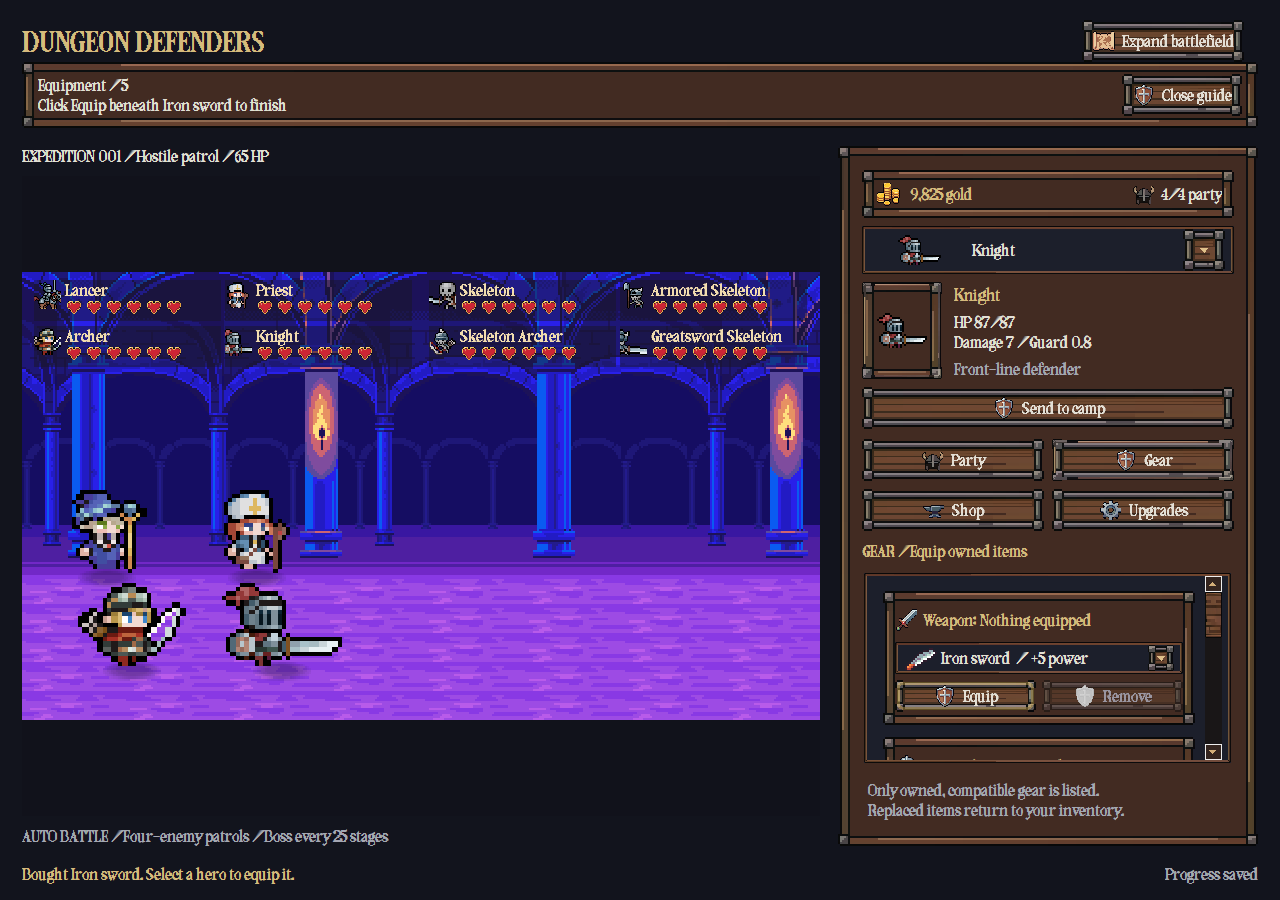
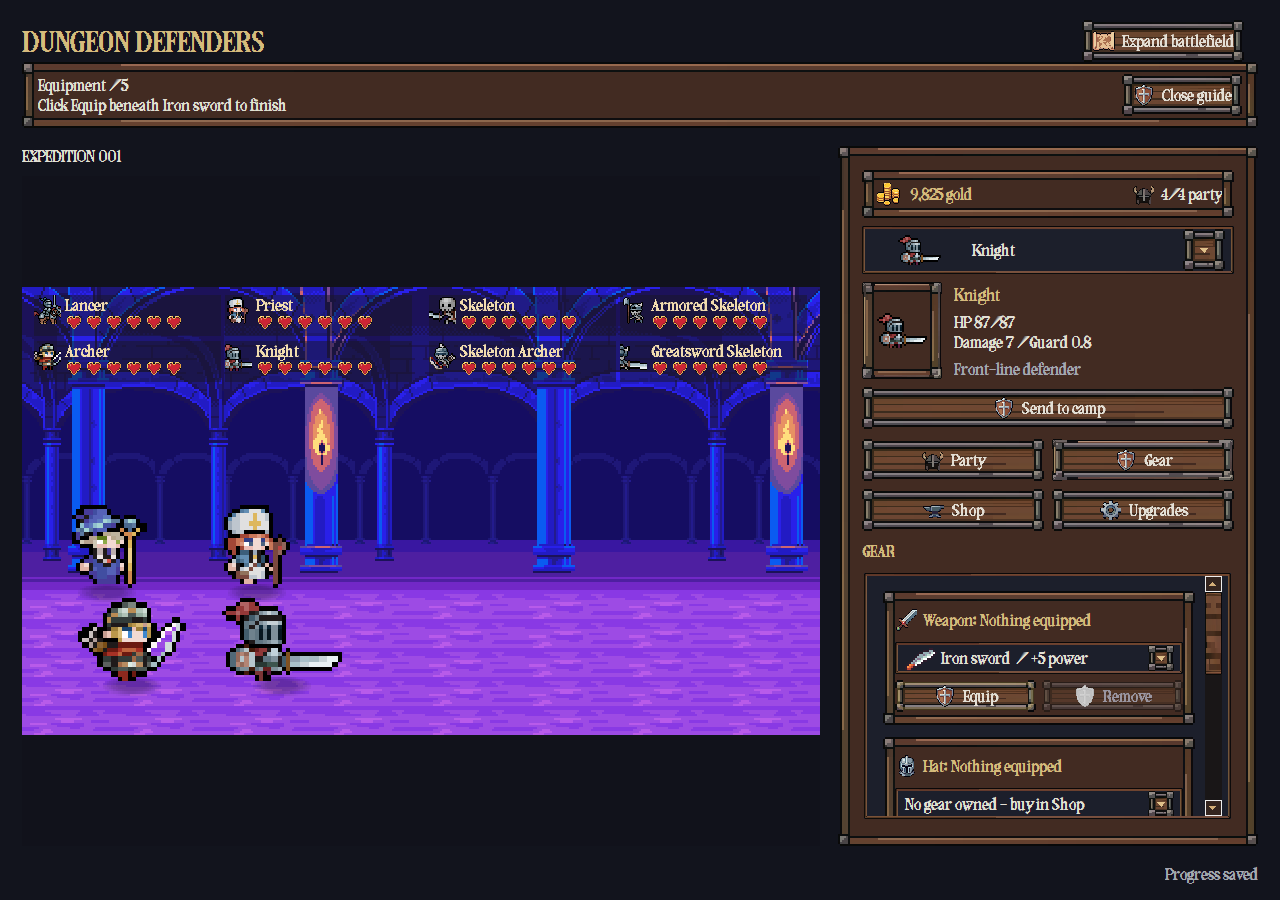
Few documentation and text removal update

diff --git a/src/idle/IdleGame.java b/src/idle/IdleGame.java
@@ -174,8 +174,7 @@ public final class IdleGame {
         JPanel scene = panel(new BorderLayout());
         stage.setForeground(TEXT); stage.setBorder(new EmptyBorder(0, 0, 10, 0)); scene.add(stage, BorderLayout.NORTH);
         battlefield = new BattlePanel(state); scene.add(battlefield, BorderLayout.CENTER);
-        JLabel tip = label("AUTO BATTLE / Four-enemy patrols / Boss every 25 stages", MUTED, 11);
-        tip.setBorder(new EmptyBorder(10, 0, 0, 0)); scene.add(tip, BorderLayout.SOUTH); left.add(scene, BorderLayout.CENTER);
+        left.add(scene, BorderLayout.CENTER);
         JPanel rosterBlock = panel(new BorderLayout(0, 9));
         rosterBlock.setBorder(new EmptyBorder(14, 2, 2, 2));
         JPanel rosterHeading = panel(new GridLayout(2, 1, 0, 5));
@@ -331,13 +330,9 @@ public final class IdleGame {
         management.add(navigationArea, BorderLayout.NORTH); management.add(tabs, BorderLayout.CENTER);
         tabs.addChangeListener(e -> updatePageHeading());
         sidebar.add(management, BorderLayout.CENTER);
-        JLabel guide = label("", MUTED, 11);
-        String[] hints = {"<html>Up to 4 heroes fight at once.<br>Recruited heroes can wait at camp.</html>", "<html>Only owned, compatible gear is listed.<br>Replaced items return to your inventory.</html>", "<html>Purchases go to shared inventory.<br>Buying an item does not equip it.</html>", "<html>Each upgrade is bought separately.<br>Gold is shared by all heroes.</html>"};
-        guide.setText(hints[0]); tabs.addChangeListener(e -> guide.setText(hints[tabs.getSelectedIndex()]));
-        guide.setBorder(new EmptyBorder(4, 6, 2, 6)); sidebar.add(guide, BorderLayout.SOUTH);
         body.add(sidebar, BorderLayout.EAST); root.add(body, BorderLayout.CENTER);
         expand.addActionListener(e -> { sidebar.setVisible(!sidebar.isVisible()); expand.setText(sidebar.isVisible() ? "Expand battlefield" : "Show party & gear"); refreshGuide(); body.revalidate(); body.repaint(); });
-        JPanel footer = panel(new BorderLayout(10, 0)); event.setForeground(GOLD); event.setFont(font(11)); footer.add(event, BorderLayout.CENTER);
+        JPanel footer = panel(new BorderLayout(10, 0));
         saveStatus.setForeground(MUTED); saveStatus.setFont(font(10)); footer.add(saveStatus, BorderLayout.EAST); root.add(footer, BorderLayout.SOUTH);
         if (state.activeCount() == 0) { recoveryGuide = true; guide("Regrouping"); }
         refresh();
@@ -397,7 +392,7 @@ public final class IdleGame {
 
     // explain the current page in terms of what the player can do and who receives the change
     private void updatePageHeading() {
-        String[] titles = {"PARTY / Recruit & deploy", "GEAR / Equip owned items", "SHOP / Buy new items", "STATS / Permanent upgrades"};
+        String[] titles = {"PARTY", "GEAR", "SHOP", "STATS"};
         int page = Math.max(0, tabs.getSelectedIndex());
         pageHeading.setText(titles[page]);
     }
@@ -424,7 +419,7 @@ public final class IdleGame {
         filterShop();
         resources.setText(new DecimalFormat("#,##0").format(state.gold) + " gold");
         partyCount.setText(state.activeCount() + "/4 party");
-        stage.setText("EXPEDITION " + String.format("%03d", state.stage) + " / " + Encounters.title(state.stage) + " / " + (int) state.enemyHp + " HP");
+        stage.setText("EXPEDITION " + String.format("%03d", state.stage));
         for (Hero h : state.heroes) {
             JButton card = roster[h.role.ordinal()];
             card.setText("<html>" + h.role.label + "<br>" + roleDescription(h.role) + "<br>" + (h.level == 0 ? "Not recruited / " + (int) state.levelCost(h) + " gold" : h.active ? (h.hp > 0 ? "In party" : "In party / Knocked out") : h.recoverySeconds > 0 ? "Recovering / " + h.recoverySeconds + "s" : "At camp / Ready") + "</html>");

diff --git a/src/idle/MainMenu.java b/src/idle/MainMenu.java
@@ -23,7 +23,7 @@ public final class MainMenu {
     private boolean reducedMotion, damageNumbers = true;
     private final GameAudio audio = Boolean.getBoolean("dungeon.audio.disabled") ? null : new GameAudio();
     private int musicVolume = 35, effectsVolume = 55;
-    private final JLabel status = new JLabel("Gather your defenders. Keep the darkness at bay.", SwingConstants.CENTER);
+    private final JLabel status = new JLabel("", SwingConstants.CENTER);
 
     // connect the menu to its window, save store, and settings paths
     // the path-taking version lets tests use temporary files without touching player data
@@ -88,10 +88,10 @@ public final class MainMenu {
         card.add(Box.createVerticalStrut(26));
         card.add(action("Play", () -> { choosingCampaign = true; show(); }));
         card.add(Box.createVerticalStrut(10)); card.add(action("Settings", this::settings));
-        card.add(Box.createVerticalStrut(10)); card.add(action("Credits", () -> information("Chronicle & Credits", "<b>Dungeon Defenders</b><br>A Java desktop idle RPG.<br><br><b>Character art</b><br>Tiny RPG Character Asset Packs 01 and 02.<br><br><b>Equipment icons</b><br>Free - Raven Fantasy Icons.<br><br><b>Audio</b><br>NimbeKit Fantasy RPG SFX 160.<br>Procedural dungeon and boss music.<br><br><b>Environment</b><br>Cold Corridors background and torch assets.<br><br><b>Interface and font</b><br>Pixelta (bundled font).<br>Free Medieval Fantasy UI Pack by Kibyra.<br>Wood, iron, parchment, and interface icons.<br><br>Original pack files and included license documents<br>are preserved under assets/packs/.")));
+        card.add(Box.createVerticalStrut(10)); card.add(action("Credits", () -> information("Chronicle & Credits", "<b>Dungeon Defenders</b><br>A Java desktop idle RPG.<br><br><b>Character art</b><br>Tiny RPG Character Asset Packs 01 and 02.<br><br><b>Equipment icons</b><br>Free - Raven Fantasy Icons.<br><br><b>Audio</b><br>NimbeKit Fantasy RPG SFX 160.<br>Dungeon and boss music.<br><br><b>Environment</b><br>Cold Corridors background and torch assets.<br><br><b>Interface and font</b><br>Pixelta (bundled font).<br>Free Medieval Fantasy UI Pack by Kibyra.<br>Wood, iron, parchment, and interface icons.<br><br>Original pack files and included license documents<br>are preserved under assets/packs/.")));
         card.add(Box.createVerticalStrut(10)); card.add(action("Quit Game", this::quit));
-        card.add(Box.createVerticalStrut(22)); status.setForeground(new Color(0xc3bdaf)); status.setFont(UiSkin.font(16)); status.setAlignmentX(.5f); card.add(status);
-        card.add(Box.createVerticalStrut(10)); addLabel(card, "Progress saves automatically during expeditions", 13, false);
+        status.setForeground(new Color(0xc3bdaf)); status.setFont(UiSkin.font(16)); status.setAlignmentX(.5f);
+        if (!status.getText().isEmpty()) { card.add(Box.createVerticalStrut(16)); card.add(status); }
         background.add(card); return background;
     }
 
@@ -254,7 +254,7 @@ public final class MainMenu {
     void returnToMenu() {
         if (game != null && !game.saveAndStop()) { information("Save failed", "Could not save progress. The expedition is still running; try again."); return; }
         closeActiveSave(); choosingCampaign = false;
-        status.setText("Your expedition is saved. Rest awhile, defender."); show();
+        status.setText("Expedition saved."); show();
     }
 
     // edit and save display preferences after the player confirms them

diff --git a/README.md b/README.md
@@ -39,6 +39,8 @@ Weapon restrictions still apply, and equipped gear changes stats rather than cha
 
 Current **1.5.0** interface previews rendered from the game with isolated demo campaigns. Gold, stages, and party selections vary between examples. These are composed game screenshots, not downloadable asset sheets.
 
+Screenshots refreshed **October 21, 2026**, showing the simplified menu, cleaned-up gameplay text, hero selector, and current step-by-step guides.
+
 ### Main menu
 
 Choose **Play** to open the expedition library, or access Settings, Credits, and Quit Game.
@@ -62,7 +64,7 @@ The sidebar keeps gold, the selected hero, and management tabs together. This pa
 
 Downed heroes leave their party slot and recover at camp over 30 seconds. The selected Knight is healing with 22 seconds remaining, while three allies continue fighting. Add a ready recruit or recovered hero manually through Party.
 
-![Knight recovering at camp with a countdown and rescue notice](docs/screenshots/camp-recovery.png)
+![Knight recovering at camp with a countdown and dismissible party guide](docs/screenshots/camp-recovery.png)
 
 </details>
 
